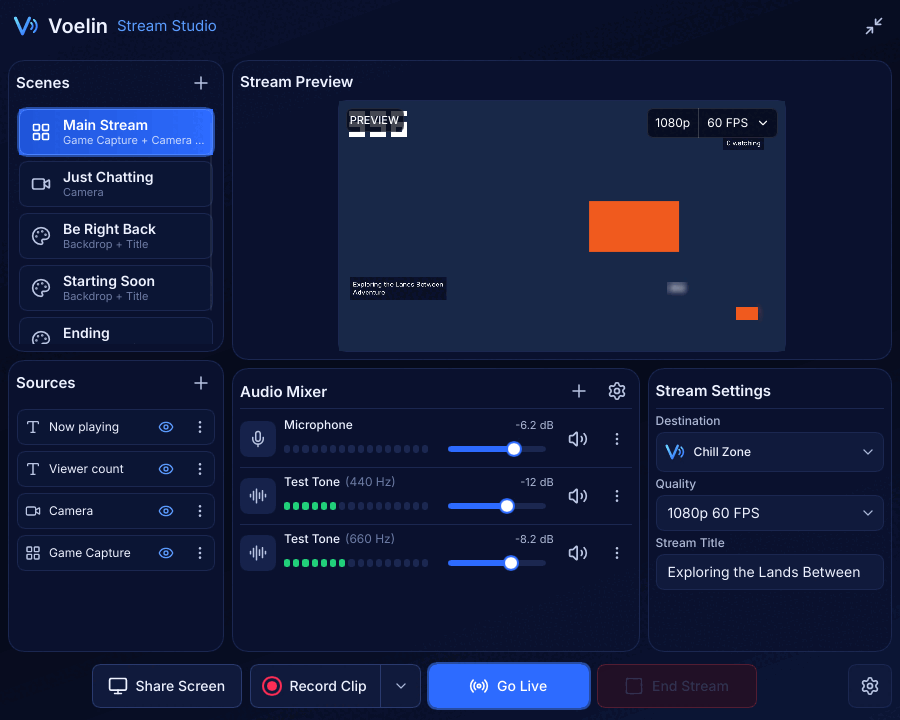
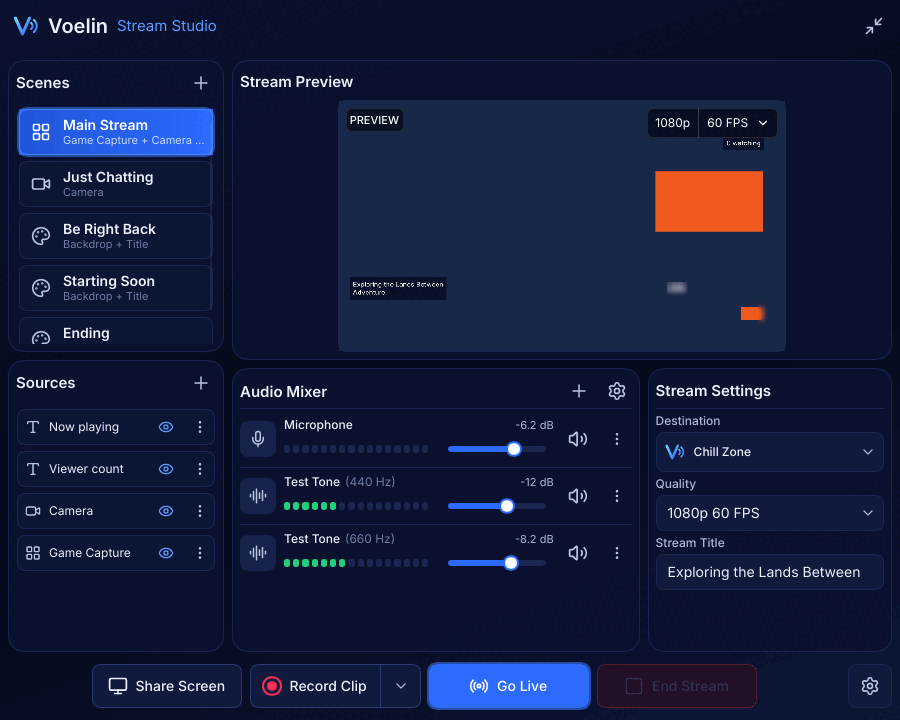
voelin-ui: keep the demo studio's game capture clear of the LIVE badge
The sample studio's "Game Capture" is the synthetic test pattern, whose
frame counter is drawn large in its top-left corner, exactly where the
preview puts LIVE and the timer: the screenshots showed half-hidden
glyphs there. The sample source now crops the pattern's top 120 rows
away (it still covers the frame), and the studio screenshots are taken
again.

Changed region(s): [[0.6533, 0.2139, 0.8711, 0.3667], [0.3733, 0.1528, 0.4667, 0.2139], [0.84, 0.4278, 0.8711, 0.4583]]

diff --git a/crates/voelin-ui/src/studio.rs b/crates/voelin-ui/src/studio.rs
@@ -38,7 +38,7 @@ use voelin_core::settings::{
 };
 use voelin_core::stream::{EndReason, StreamSetup, ViewerInfo, ViewerState};
 use voelin_core::studio::scene::{
-	Align, Background, Colour, Fit, Scene, Scenes, Source, SourceKind, Transform,
+	Align, Background, Colour, Crop, Fit, Scene, Scenes, Source, SourceKind, Transform,
 };
 use voelin_core::studio::{self, SourceChange, Stats, Status, Studio, camera};
 use voelin_core::{Command, HistoryMessage, HistorySource, StreamState};
@@ -329,15 +329,16 @@ fn demo_settings() -> Settings {
 	let mut cam = source(2, "Camera", camera.clone(), Transform::default());
 	cam.transform = vm::studio::placement(&camera, (1920, 1080));
 	cam.background = Background::Blur { strength: 0.04 };
-	main.sources = vec![
-		source(
-			1,
-			"Game Capture",
-			SourceKind::Pattern { size: (1280, 720) },
-			Transform { fit: Fit::Cover, ..Transform::full(1920, 1080) },
-		),
-		cam,
-	];
+	let mut game = source(
+		1,
+		"Game Capture",
+		SourceKind::Pattern { size: (1280, 720) },
+		Transform { fit: Fit::Cover, ..Transform::full(1920, 1080) },
+	);
+	// The pattern's frame counter sits in its top-left corner, under the
+	// preview's LIVE badge and timer: cropped away.
+	game.crop = Crop { top: 120, ..Crop::default() };
+	main.sources = vec![game, cam];
 	let mut chatting = Scene::new(2, "Just Chatting");
 	chatting.sources = vec![source(
 		1,
